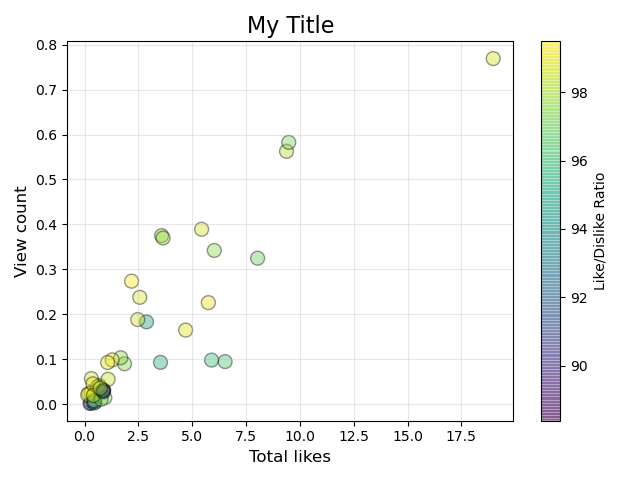
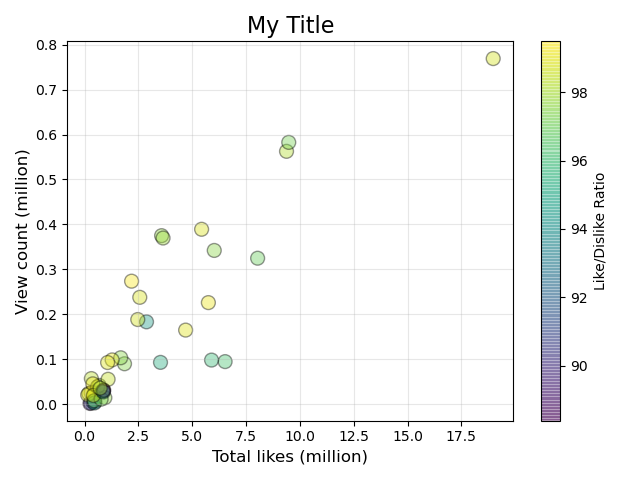
"million"s are added

Changed region(s): [[0.0, 0.3125, 0.0625, 0.6562], [0.3125, 0.9375, 0.5938, 0.9688]]

diff --git a/scripts_and_data/scatter_1.py b/scripts_and_data/scatter_1.py
@@ -13,8 +13,8 @@ cbar.set_label('Like/Dislike Ratio')
 #plt.legend()
 plt.title("My Title",fontsize=16)
 plt.grid(alpha=0.3)
-plt.xlabel("Total likes",fontsize=12)
-plt.ylabel("View count",fontsize=12)
+plt.xlabel("Total likes (million)",fontsize=12)
+plt.ylabel("View count (million)",fontsize=12)
 plt.tight_layout()
 plt.savefig("scatter_1.png")
 plt.show()
